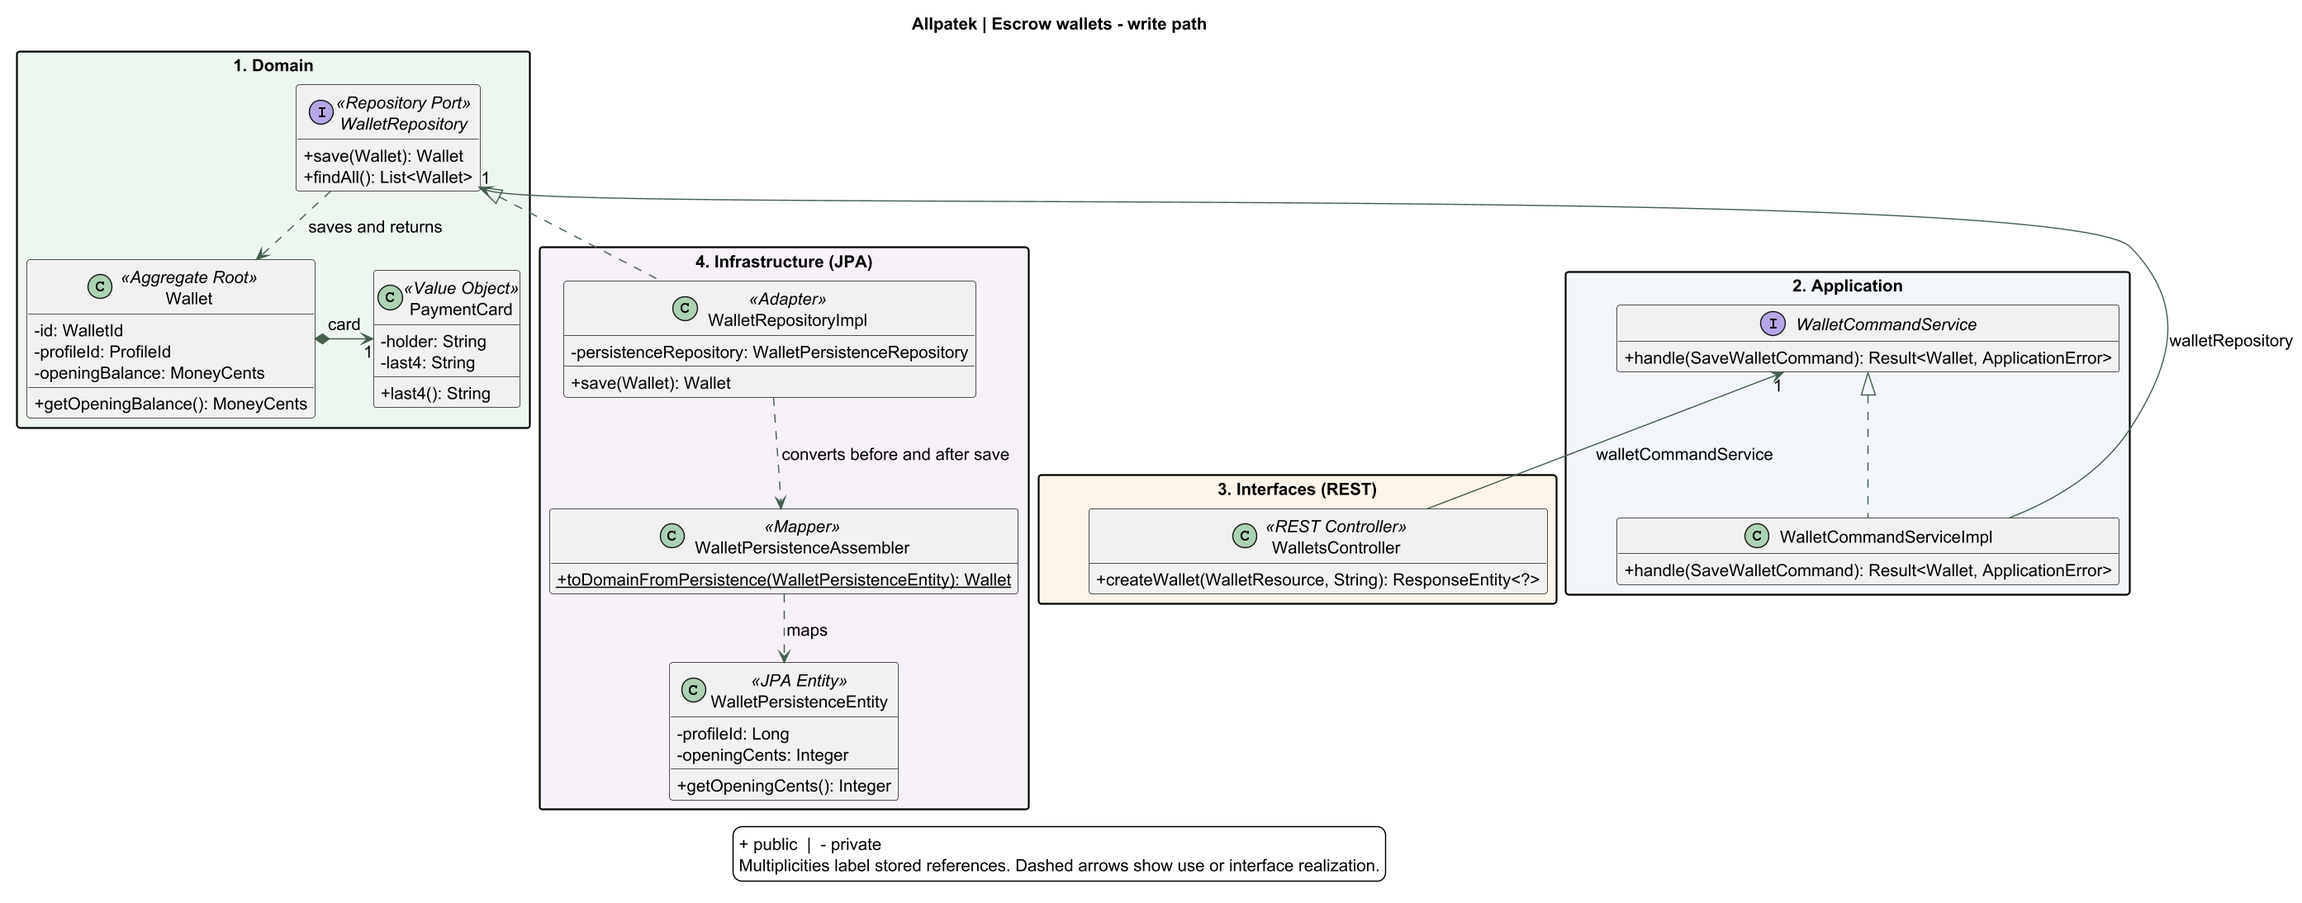
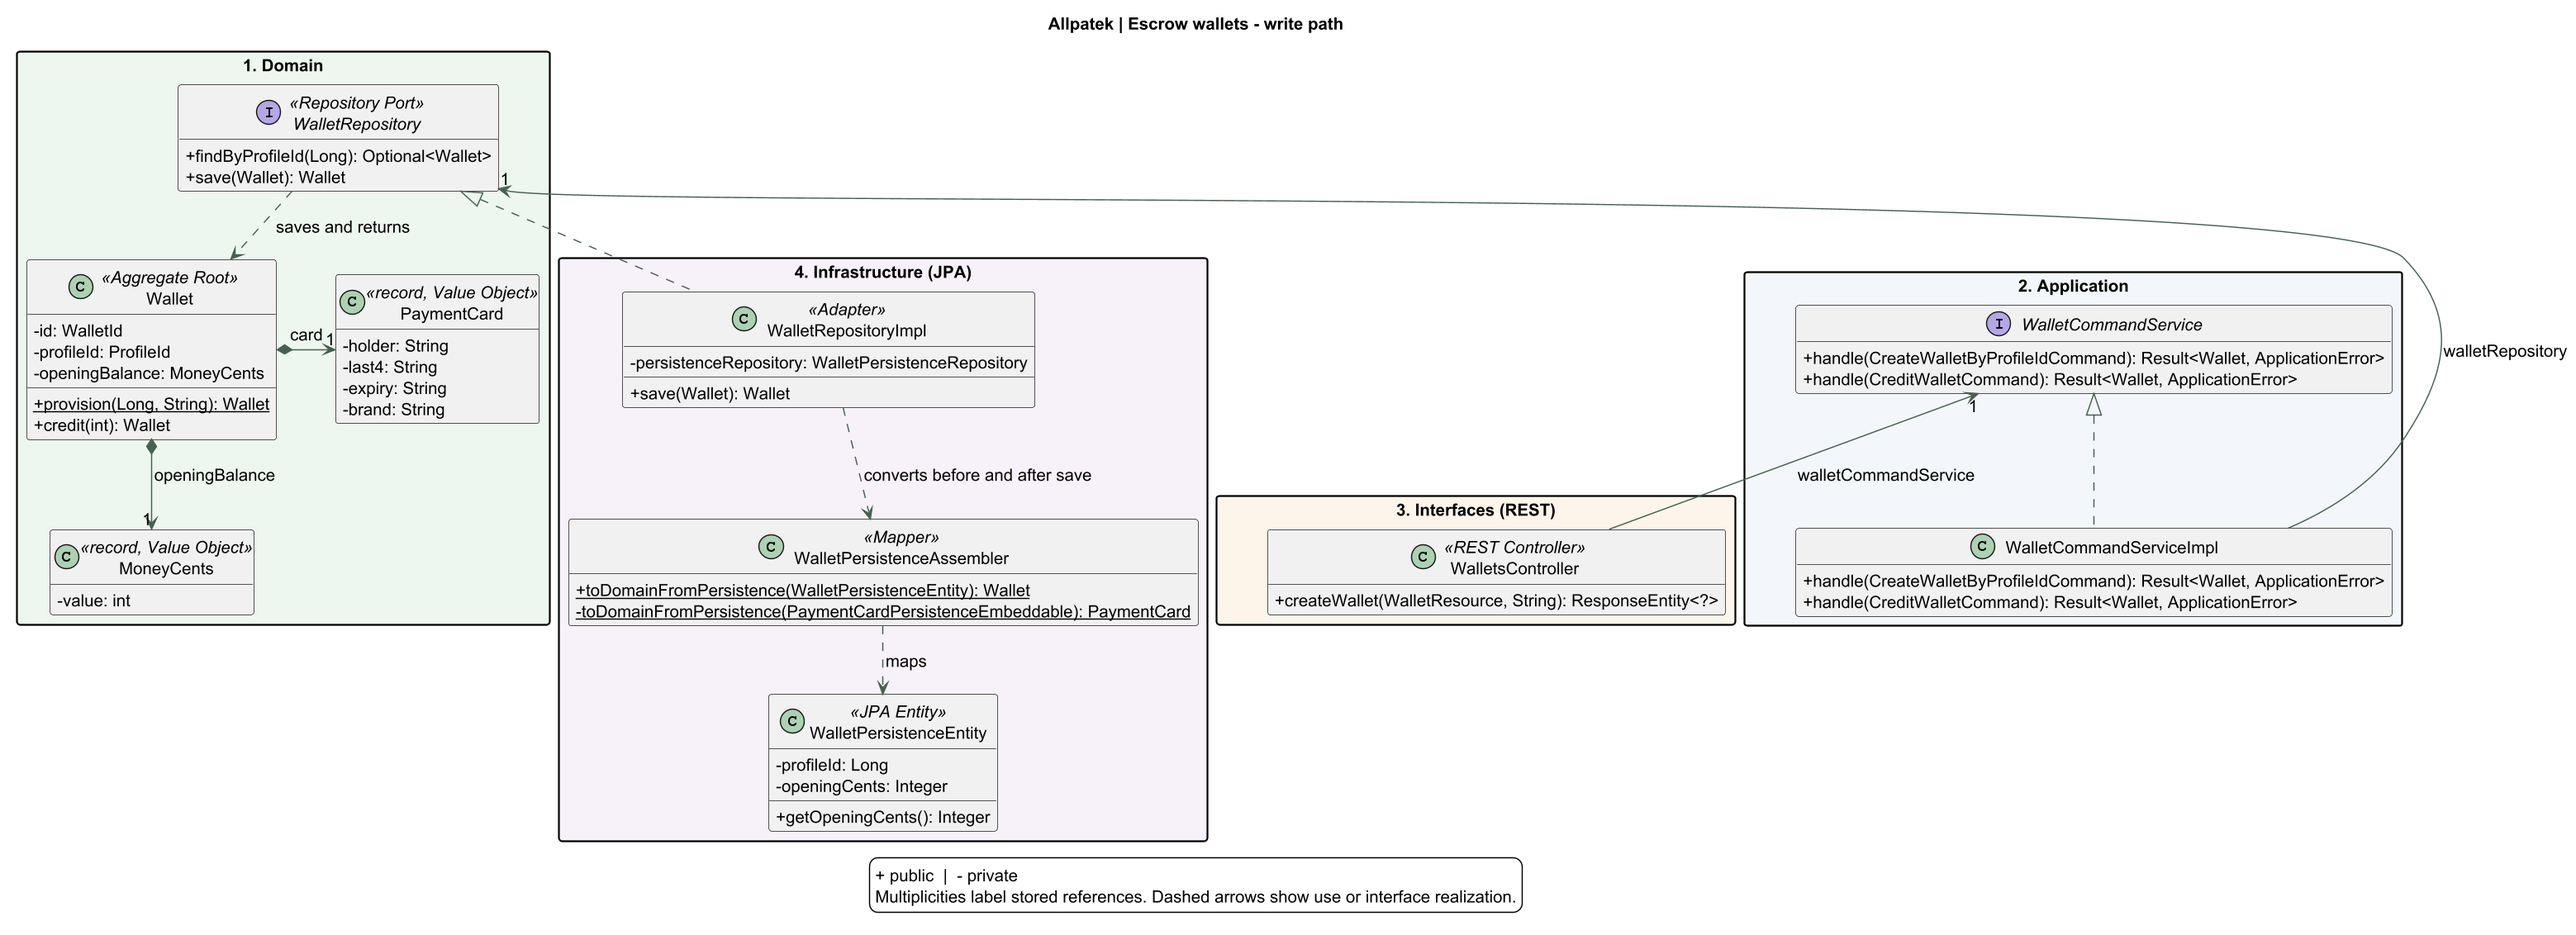
docs(uml): model wallet provisioning and balance credits

diff --git a/README.md b/README.md
@@ -2333,7 +2333,7 @@ Las figuras cubren los contextos del backend y los módulos correspondientes de 
 
 #### Bóveda de demostración
 
-**Backend.** `Wallet` asocia un perfil con una tarjeta y un saldo inicial expresado en centavos mediante `MoneyCents`. `WalletsController` delega el registro en `WalletCommandService`. El adaptador JPA conserva la billetera y los atributos de `PaymentCard`; esta operación guarda datos de la demo y el backend carece de un servicio de desembolso. El recurso expone el número de tarjeta y el CVV, y el modelo de persistencia los conserva. Para la demo corresponden datos ficticios.
+**Backend.** `Wallet.provision` crea la billetera con tarjeta enmascarada y saldo inicial. `Wallet.credit` devuelve una billetera con el monto incrementado. `WalletCommandServiceImpl` persiste el resultado. El ensamblador de persistencia escribe valores nulos en las columnas `card_number` y `cvv`.
 
 ![Figura 4.7.1-C1. Bóveda en Spring](assets/chapter-04/architecture/11-classes-payments.png)
 
